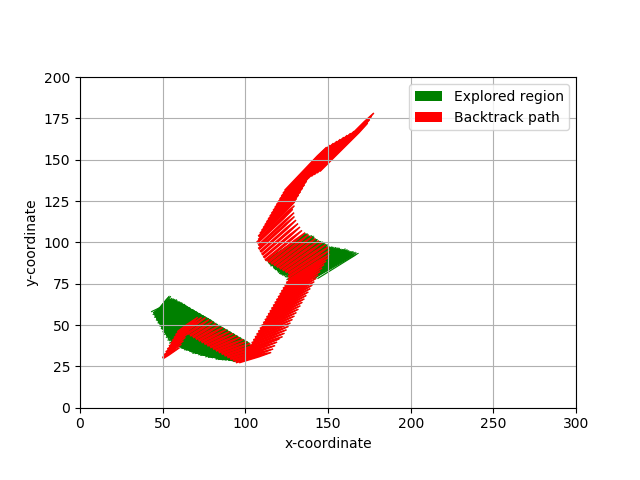
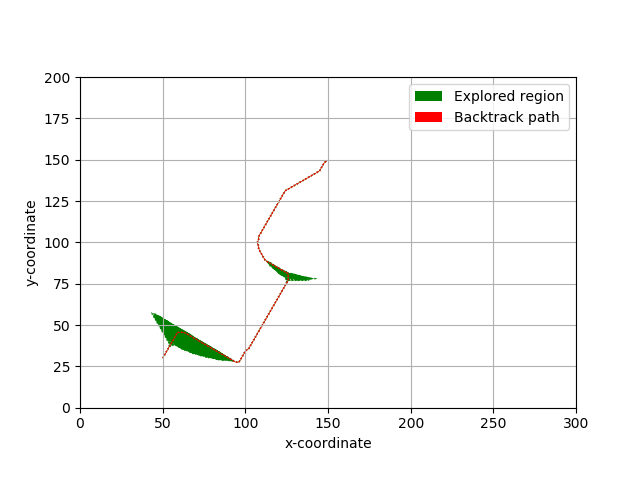
Modified utils.py file and added screen.png

Changed region(s): [[0.2188, 0.25, 0.5938, 0.7812]]

diff --git a/codes/utils.py b/codes/utils.py
@@ -185,8 +185,8 @@ class AStar(object):
         return (False, newRow, newCol, newTheta)
     
     # update action
-    def UpdateAction(self, current_node, weight, newRow, newCol, newTheta):
-        new_cost_to_come = self.costToCome[current_node] + weight
+    def UpdateAction(self, currentNode, weight, newRow, newCol, newTheta):
+        new_cost_to_come = self.costToCome[currentNode] + weight
         new_cost_to_go = self.euc_heuristic(newRow, newCol)
         new_distance = new_cost_to_come + new_cost_to_go
 
@@ -196,7 +196,7 @@ class AStar(object):
             self.distance[(newRow, newCol, newTheta)] = new_distance
             self.costToCome[(newRow, newCol, newTheta)] = new_cost_to_come
             self.costToGo[(newRow, newCol, newTheta)] = new_cost_to_go
-            self.path[(newRow, newCol, newTheta)] = current_node
+            self.path[(newRow, newCol, newTheta)] = currentNode
             return True
         return False
 
@@ -213,7 +213,7 @@ class AStar(object):
         out.release()
 
     # animate path
-    def animate(self, explored_states, backtrack_states, path):
+    def animate(self, exploredStates, backtrackStates, path):
         startX = []
         startY = []
         endX = []
@@ -223,55 +223,56 @@ class AStar(object):
         explored_endX = []
         explored_endY = []
         fig, ax = plt.subplots()
+        plt.xlabel("x-coordinate")
+        plt.ylabel("y-coordinate")
         plt.grid()
         ax.set_aspect('equal')
         plt.xlim(0, 300)
         plt.ylim(0, 200)
-        plt.xlabel("x-coordinate")
-        plt.ylabel("y-coordinate")
         count = 0
 
-        for index in range(1, len(explored_states)):
-            explored_startX.append(explored_states[index-1][1])
-            explored_startY.append(explored_states[index-1][0])
-            explored_endX.append(explored_states[index][1])
-            explored_endY.append(explored_states[index][0])    
+        for index in range(1, len(exploredStates)):
+            parentNode = self.path[exploredStates[index]]
+            explored_startX.append(parentNode[1])
+            explored_startY.append(parentNode[0])
+            explored_endX.append(exploredStates[index][1] - parentNode[1])
+            explored_endY.append(exploredStates[index][0] - parentNode[0])    
             #if(count % 500 == 0 or (index > 11000 and index % 100 == 0) or index > 12600):
-            #    plt.quiver(np.array((explored_startX)), np.array((explored_startY)), np.array((explored_endX)), np.array((explored_endY)), units = 'xy', scale = 10, color = 'g', headwidth = 0.5, headlength = 0, label='Explored region')
+            #    plt.quiver(np.array((explored_startX)), np.array((explored_startY)), np.array((explored_endX)), np.array((explored_endY)), units = 'xy', scale = 1, color = 'g', label='Explored region')
             #    plt.savefig("output1/sample" + str(count) + ".png")
             count = count + 1
     
-        if(len(backtrack_states) > 0):
-            for index in range(1, len(backtrack_states)):
-                startX.append(backtrack_states[index-1][1])
-                startY.append(backtrack_states[index-1][0])
-                endX.append(backtrack_states[index][1])
-                endY.append(backtrack_states[index][0])    
+        if(len(backtrackStates) > 0):
+            for index in range(1, len(backtrackStates)):
+                startX.append(backtrackStates[index-1][1])
+                startY.append(backtrackStates[index-1][0])
+                endX.append(backtrackStates[index][1] - backtrackStates[index-1][1])
+                endY.append(backtrackStates[index][0] - backtrackStates[index-1][0])    
                 #if(count % 2 == 0):
-                #    plt.quiver(np.array((startX)), np.array((startY)), np.array((endX)), np.array((endY)), units = 'xy', scale = 10, color = 'r', headwidth = 0.5, headlength = 0, label='Backtrack path')
+                #    plt.quiver(np.array((startX)), np.array((startY)), np.array((endX)), np.array((endY)), units = 'xy', scale = 1, color = 'r', label='Backtrack path')
                 #    plt.savefig("output1/sample" + str(count) + ".png")
                 count = count + 1
 
-        plt.quiver(np.array((explored_startX)), np.array((explored_startY)), np.array((explored_endX)), np.array((explored_endY)), units = 'xy', scale = 5, color = 'g', headwidth = 0.5, headlength = 0, label='Explored region')
-        if(len(backtrack_states) > 0):
-            plt.quiver(np.array((startX)), np.array((startY)), np.array((endX)), np.array((endY)), units = 'xy', scale = 5, color = 'r', headwidth = 0.5, headlength = 0, label='Backtrack path')
+        plt.quiver(np.array((explored_startX)), np.array((explored_startY)), np.array((explored_endX)), np.array((explored_endY)), units = 'xy', scale = 1, color = 'g', label='Explored region')
+        if(len(backtrackStates) > 0):
+            plt.quiver(np.array((startX)), np.array((startY)), np.array((endX)), np.array((endY)), units = 'xy', scale = 1, color = 'r', label='Backtrack path')
         plt.legend()
         plt.show()
         plt.close()
         
     # euc heuristic
-    def euc_heuristic(self, row, col):
-        return np.sqrt(((self.goal[0] - row)**2) + ((self.goal[1] - col)**2)) / 0.5
+    def euc_heuristic(self, row, col, weight = 1.0):
+        return weight * (np.sqrt(((self.goal[0] - row)**2) + ((self.goal[1] - col)**2)) / 0.5)
     
     # a-star algo
     def search(self):
         # mark source node and create a queue
-        explored_states = []
+        exploredStates = []
         queue = []
         self.costToCome[self.start] = 0
         self.costToGo[self.start] = self.euc_heuristic(self.start[0], self.start[1])
         self.distance[self.start] = self.costToCome[self.start] + self.costToGo[self.start]
-        heappush(queue, (self.distance[self.start], self.start))
+        heappush(queue, (self.distance[self.start], self.costToCome[self.start], self.start))
         backtrackNode = None
         flag = 0
         steps = 0
@@ -279,67 +280,67 @@ class AStar(object):
         # run a-star
         while(len(queue) > 0):
             # get current node
-            _, current_node = heappop(queue)
-            self.visited[(int(round(2.0 * current_node[0])), int(round(2.0 * current_node[1])), current_node[2])] = True
-            explored_states.append(current_node)
+            _, _, currentNode = heappop(queue)
+            self.visited[(int(round(2.0 * currentNode[0])), int(round(2.0 * currentNode[1])), currentNode[2])] = True
+            exploredStates.append(currentNode)
             steps = steps + 1
             
             # if goal node then break, using the distance formula
-            if(np.square(np.abs(current_node[0] - self.goal[0])) + np.square(np.abs(current_node[1] - self.goal[1])) < 0.5625):
-                backtrackNode = current_node
+            if(np.square(np.abs(currentNode[0] - self.goal[0])) + np.square(np.abs(currentNode[1] - self.goal[1])) < 0.5625):
+                backtrackNode = currentNode
                 flag = 1
                 break
                
-            # break if steps greater than 1000000
-            #if(steps > 1000000):
-            #    break
+            # break if steps greater than 5000000
+            if(steps > 5000000):
+                break
 
             # traverse the edges
             # action 1
-            (moveOnePossible, newRow, newCol, newTheta) = self.ActionMoveOne(current_node[0], current_node[1], current_node[2])
+            (moveOnePossible, newRow, newCol, newTheta) = self.ActionMoveOne(currentNode[0], currentNode[1], currentNode[2])
             if(moveOnePossible):
-                updateHeap = self.UpdateAction(current_node, 1, newRow, newCol, newTheta)
+                updateHeap = self.UpdateAction(currentNode, 1, newRow, newCol, newTheta)
                 if(updateHeap):
-                    heappush(queue, (self.distance[(newRow, newCol, newTheta)], (newRow, newCol, newTheta)))
+                    heappush(queue, (self.distance[(newRow, newCol, newTheta)], self.costToCome[(newRow, newCol, newTheta)], (newRow, newCol, newTheta)))
             
             # action 2
-            (moveTwoPossible, newRow, newCol, newTheta) = self.ActionMoveTwo(current_node[0], current_node[1], current_node[2])
+            (moveTwoPossible, newRow, newCol, newTheta) = self.ActionMoveTwo(currentNode[0], currentNode[1], currentNode[2])
             if(moveTwoPossible):
-                updateHeap = self.UpdateAction(current_node, 1.3, newRow, newCol, newTheta)
+                updateHeap = self.UpdateAction(currentNode, 1.3, newRow, newCol, newTheta)
                 if(updateHeap):
-                    heappush(queue, (self.distance[(newRow, newCol, newTheta)], (newRow, newCol, newTheta)))
+                    heappush(queue, (self.distance[(newRow, newCol, newTheta)], self.costToCome[(newRow, newCol, newTheta)], (newRow, newCol, newTheta)))
                     
             # action 3
-            (moveThreePossible, newRow, newCol, newTheta) = self.ActionMoveThree(current_node[0], current_node[1], current_node[2])
+            (moveThreePossible, newRow, newCol, newTheta) = self.ActionMoveThree(currentNode[0], currentNode[1], currentNode[2])
             if(moveThreePossible):
-                updateHeap = self.UpdateAction(current_node, 1.6, newRow, newCol, newTheta)
+                updateHeap = self.UpdateAction(currentNode, 1.6, newRow, newCol, newTheta)
                 if(updateHeap):
-                    heappush(queue, (self.distance[(newRow, newCol, newTheta)], (newRow, newCol, newTheta)))
+                    heappush(queue, (self.distance[(newRow, newCol, newTheta)], self.costToCome[(newRow, newCol, newTheta)], (newRow, newCol, newTheta)))
               
             # action 4
-            (moveFourPossible, newRow, newCol, newTheta) = self.ActionMoveFour(current_node[0], current_node[1], current_node[2])      
+            (moveFourPossible, newRow, newCol, newTheta) = self.ActionMoveFour(currentNode[0], currentNode[1], currentNode[2])      
             if(moveFourPossible):
-                updateHeap = self.UpdateAction(current_node, 1.3, newRow, newCol, newTheta)
+                updateHeap = self.UpdateAction(currentNode, 1.3, newRow, newCol, newTheta)
                 if(updateHeap):
-                    heappush(queue, (self.distance[(newRow, newCol, newTheta)], (newRow, newCol, newTheta)))
+                    heappush(queue, (self.distance[(newRow, newCol, newTheta)], self.costToCome[(newRow, newCol, newTheta)], (newRow, newCol, newTheta)))
                     
             # action 5
-            (moveFivePossible, newRow, newCol, newTheta) = self.ActionMoveFive(current_node[0], current_node[1], current_node[2])
+            (moveFivePossible, newRow, newCol, newTheta) = self.ActionMoveFive(currentNode[0], currentNode[1], currentNode[2])
             if(moveFivePossible):
-                updateHeap = self.UpdateAction(current_node, 1.6, newRow, newCol, newTheta)
+                updateHeap = self.UpdateAction(currentNode, 1.6, newRow, newCol, newTheta)
                 if(updateHeap):
-                    heappush(queue, (self.distance[(newRow, newCol, newTheta)], (newRow, newCol, newTheta)))
+                    heappush(queue, (self.distance[(newRow, newCol, newTheta)], self.costToCome[(newRow, newCol, newTheta)], (newRow, newCol, newTheta)))
                     
         # return if no optimal path
         if(flag == 0):
-            return (explored_states, [], float('inf'))
+            return (exploredStates, [], float('inf'))
         
         # backtrack path
-        backtrack_states = []
+        backtrackStates = []
         node = backtrackNode
         while(node != self.start):
-            backtrack_states.append(node)
+            backtrackStates.append(node)
             node = self.path[node]
-        backtrack_states.append(self.start)
-        backtrack_states = list(reversed(backtrack_states))      
-        return (explored_states, backtrack_states, self.distance[backtrackNode])
+        backtrackStates.append(self.start)
+        backtrackStates = list(reversed(backtrackStates))      
+        return (exploredStates, backtrackStates, self.distance[backtrackNode])
